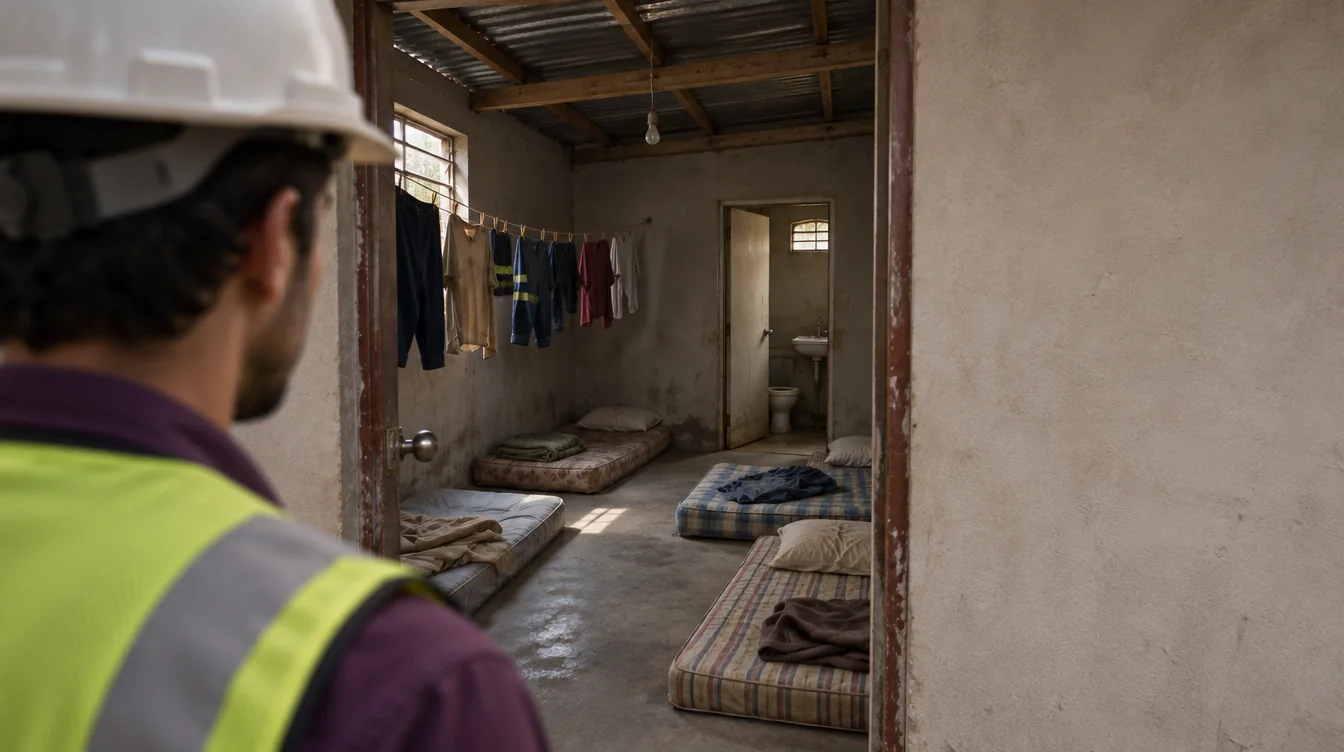
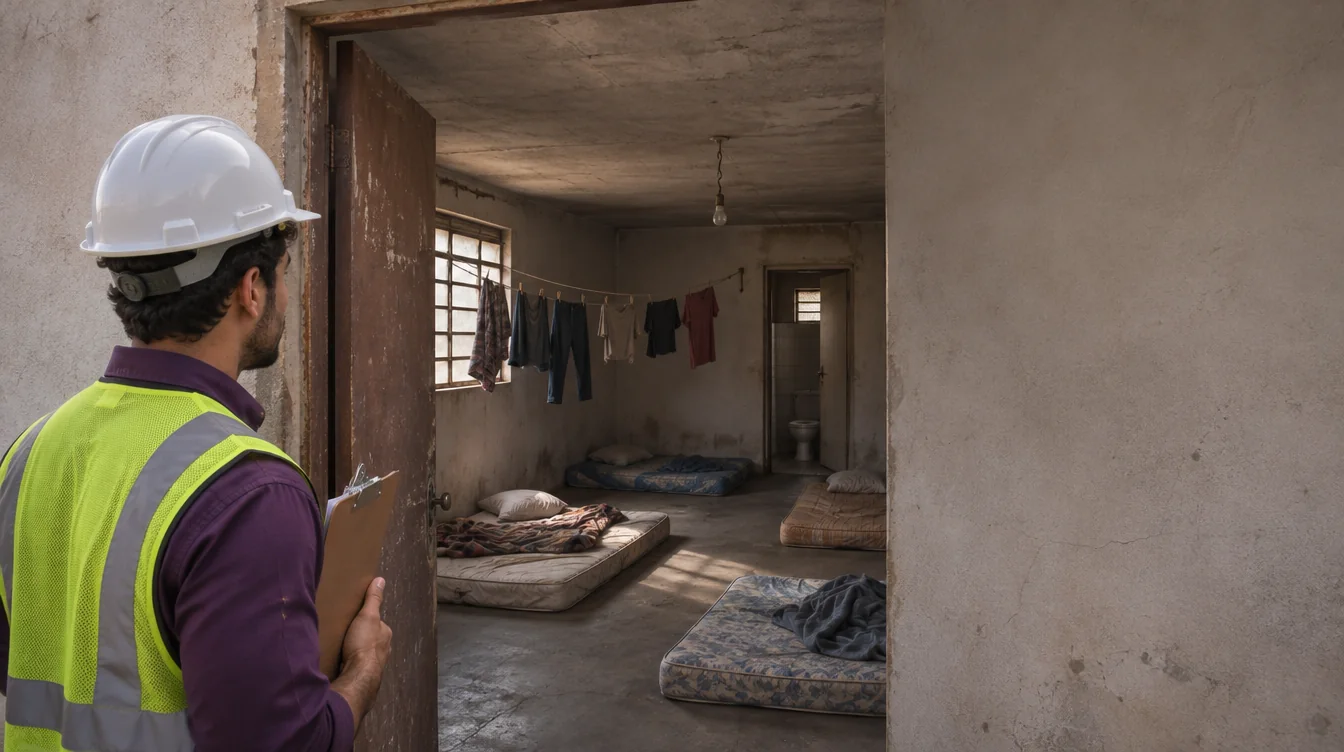
Ajusta balões e enquadramento das fotos no demo fotográfico

diff --git a/fotos/index.html b/fotos/index.html
@@ -44,8 +44,8 @@ img{display:block;max-width:100%}
 
 /* capa */
 .capa{position:relative;min-height:min(86vh,760px);color:#fff;display:flex;align-items:center;overflow:hidden;background:#140433}
-.capa .foto{position:absolute;inset:0;width:100%;height:100%;object-fit:cover;object-position:70% 50%;animation:zoom 16s ease-out both}
-@keyframes zoom{from{transform:scale(1.08)}to{transform:none}}
+.capa .foto{position:absolute;inset:0;width:100%;height:100%;object-fit:cover;object-position:70% 0%;transform-origin:70% 0%;animation:zoom 16s ease-out both}
+@keyframes zoom{from{transform:scale(1.05)}to{transform:none}}
 .capa::after{content:"";position:absolute;inset:0;background:linear-gradient(90deg,rgba(20,4,51,.92) 0%,rgba(20,4,51,.7) 38%,rgba(20,4,51,0) 70%)}
 .capa-in{position:relative;z-index:2;max-width:1100px;width:100%;margin:0 auto;padding:70px 24px}
 .capa .logo{width:230px;height:auto;margin-bottom:40px}
@@ -173,7 +173,7 @@ img{display:block;max-width:100%}
 @media (max-width:600px){
   .sec{padding:56px 16px}
   .capa{min-height:auto}
-  .capa .foto{object-position:72% 50%}
+  .capa .foto{object-position:72% 0%}
   .capa::after{background:linear-gradient(180deg,rgba(20,4,51,.35) 0%,rgba(20,4,51,.92) 62%)}
   .capa-in{padding:150px 18px 40px}
   .capa .logo{width:170px;margin-bottom:24px}
@@ -296,12 +296,12 @@ const feitos = {};
 /* cenas: tx/ty = boca ou cabeça de quem fala (em % da foto); x/y/w = posição do balão */
 const CENAS = [
   {img:'c01', alt:'Marcos chega à frente de obra da terceirizada e acena', tipo:'fala', quem:'Marcos', t:'Bom dia! Vim conferir o andamento da drenagem.', x:38, y:7, w:30, tx:22, ty:17},
-  {img:'c02', alt:'Por cima do ombro de Marcos, o alojamento com colchões no chão', tipo:'pensa', quem:'Marcos', t:'Colchões no chão... e um banheiro só pra tanta gente?', x:58, y:6, w:34, tx:14, ty:22},
+  {img:'c02', alt:'Por cima do ombro de Marcos, o alojamento com colchões no chão', tipo:'pensa', quem:'Marcos', t:'Colchões no chão... e um banheiro só pra tanta gente?', x:64, y:8, w:32, tx:17, ty:30},
   {img:'c03', alt:'Galões de água sem identificação no chão do alojamento', tipo:'pensa', quem:'Marcos', nome:true, t:'E essa água, de onde vem?', x:4, y:12, w:30, tx:null},
   {img:'c04', alt:'Um trabalhador sentado na soleira fala com Marcos', tipo:'fala', quem:'Trabalhador', nome:true, t:'Aqui o turno começa às cinco. E só acaba depois das oito da noite.', x:3, y:5, w:38, tx:33, ty:43},
   {img:'c05', alt:'Um trabalhador mais velho fala em voz baixa com Marcos', tipo:'fala', quem:'Trabalhador', nome:true, t:'O encarregado guarda nossas carteiras de trabalho, "pra não perder".', x:3, y:6, w:38, tx:52, ty:20},
-  {img:'c06', alt:'O trabalhador, de perfil, preocupado', tipo:'fala', quem:'Trabalhador', t:'E todo mundo deve pra cantina. Ninguém sai daqui antes de acertar.', x:4, y:16, w:40, tx:56, ty:58},
-  {img:'c07', alt:'Marcos, pensativo', tipo:'pensa', quem:'Marcos', t:'E agora, o que eu faço?', x:8, y:16, w:30, tx:58, ty:26}
+  {img:'c06', alt:'O trabalhador, de perfil, preocupado', tipo:'fala', quem:'Trabalhador', t:'E todo mundo deve pra cantina. Ninguém sai daqui antes de acertar.', x:4, y:14, w:40, tx:60, ty:57},
+  {img:'c07', alt:'Marcos, pensativo', tipo:'pensa', quem:'Marcos', t:'E agora, o que eu faço?', x:10, y:16, w:30, tx:70, ty:30}
 ];
 const CENA_C = {img:'c08', alt:'Marcos registra o relato no notebook do escritório da obra', tipo:'fala', quem:'Marcos', t:'Vou relatar só o que vi e ouvi, onde e quando, sem expor quem falou comigo.', x:3, y:9, w:36, tx:58, ty:27};
 const OPS = [
@@ -322,22 +322,33 @@ function desenhaRabicho(c) {
   const P = palco.getBoundingClientRect(), B = balao.getBoundingClientRect();
   rab.setAttribute('viewBox', `0 0 ${P.width} ${P.height}`);
   const tx = c.tx / 100 * P.width, ty = c.ty / 100 * P.height;
-  const bx = B.left - P.left, by = B.top - P.top, bw = B.width, bh = B.height;
-  const cx = Math.min(Math.max(tx, bx + 26), bx + bw - 26), cy = by + bh / 2;
+  const bx = B.left - P.left, by = B.top - P.top, bw = B.width, bh = B.height, r = 22;
+  // ponto de saída: na borda do balão, do lado do falante, longe dos cantos arredondados
+  let sx, sy, nx, ny;
+  if (tx > bx + bw) { sx = bx + bw; sy = Math.min(Math.max(ty, by + r + 8), by + bh - r - 8); nx = 1; ny = 0; }
+  else if (tx < bx) { sx = bx; sy = Math.min(Math.max(ty, by + r + 8), by + bh - r - 8); nx = -1; ny = 0; }
+  else if (ty > by + bh) { sx = Math.min(Math.max(tx, bx + r + 10), bx + bw - r - 10); sy = by + bh; nx = 0; ny = 1; }
+  else { sx = Math.min(Math.max(tx, bx + r + 10), bx + bw - r - 10); sy = by; nx = 0; ny = -1; }
+  const dx = tx - sx, dy = ty - sy, dist = Math.hypot(dx, dy) || 1, ux = dx / dist, uy = dy / dist;
+  const esc = Math.max(.6, Math.min(1.2, P.width / 900));
   if (c.tipo === 'pensa') {
-    const sx = Math.min(Math.max(tx, bx + 30), bx + bw - 30), sy = ty < by ? by : by + bh;
-    let h = '';
-    [[.3, 9], [.58, 6.5], [.8, 4.5]].forEach(([f, r]) => { h += `<circle cx="${sx + (tx - sx) * f}" cy="${sy + (ty - sy) * f}" r="${r * Math.max(.7, P.width / 1000)}" fill="#fff"/>`; });
-    rab.innerHTML = h; return;
+    // três bolinhas que diminuem na direção de quem pensa, sem encostar na cabeça
+    const passo = Math.min(dist * .22, 30 * esc); let h = '';
+    [[1, 9], [2.1, 6.5], [3, 4.5]].forEach(([k, rr]) => { h += `<circle cx="${sx + ux * passo * k}" cy="${sy + uy * passo * k}" r="${rr * esc}" fill="#fff"/>`; });
+    rab.innerHTML = `<g filter="url(#sombra)">${h}</g>` + defs(); return;
   }
-  // base do rabicho na borda do balão mais próxima do falante
-  let p1, p2; const lado = Math.max(14, bw * .07);
-  if (ty > by + bh) { p1 = [cx - lado, by + bh - 2]; p2 = [cx + lado, by + bh - 2]; }
-  else if (tx > bx + bw) { const yy = Math.min(Math.max(ty, by + 20), by + bh - 20); p1 = [bx + bw - 2, yy - lado]; p2 = [bx + bw - 2, yy + lado]; }
-  else { const xx = Math.min(Math.max(tx, bx + 26), bx + bw - 26); p1 = [xx - lado, by + 2]; p2 = [xx + lado, by + 2]; }
-  const ex = tx - (tx - (p1[0] + p2[0]) / 2) * .12, ey = ty - (ty - (p1[1] + p2[1]) / 2) * .12;
-  rab.innerHTML = `<path d="M${p1[0]} ${p1[1]} Q${(p1[0] + ex) / 2} ${(p1[1] + ey) / 2 + 4} ${ex} ${ey} Q${(p2[0] + ex) / 2} ${(p2[1] + ey) / 2} ${p2[0]} ${p2[1]} Z" fill="#fff"/>`;
+  // rabicho curto e curvo: aponta para a boca, mas para bem antes dela
+  const len = Math.min(dist * .4, 54 * esc), meia = 13 * esc;
+  const px = -ny, py = nx;                     // direção ao longo da borda
+  const b1 = [sx - px * meia, sy - py * meia], b2 = [sx + px * meia, sy + py * meia];
+  const tip = [sx + ux * len, sy + uy * len];
+  const curva = 8 * esc;                         // leve gancho
+  const c1 = [(b1[0] + tip[0]) / 2 + px * curva * .4, (b1[1] + tip[1]) / 2 + py * curva * .4];
+  const c2 = [(b2[0] + tip[0]) / 2 + px * curva, (b2[1] + tip[1]) / 2 + py * curva];
+  const ent = 3; // entra um pouco no balão para não aparecer emenda
+  rab.innerHTML = defs() + `<path filter="url(#sombra)" d="M${b1[0] - nx * ent} ${b1[1] - ny * ent} Q${c1[0]} ${c1[1]} ${tip[0]} ${tip[1]} Q${c2[0]} ${c2[1]} ${b2[0] - nx * ent} ${b2[1] - ny * ent} Z" fill="#fff"/>`;
 }
+const defs = () => '<defs><filter id="sombra" x="-50%" y="-50%" width="200%" height="200%"><feDropShadow dx="0" dy="4" stdDeviation="4" flood-color="#000" flood-opacity=".22"/></filter></defs>';
 function mostra(c) {
   $$('img.cena', palco).forEach(i => i.classList.toggle('on', i.dataset.img === c.img));
   balao.classList.remove('on'); rab.innerHTML = '';
